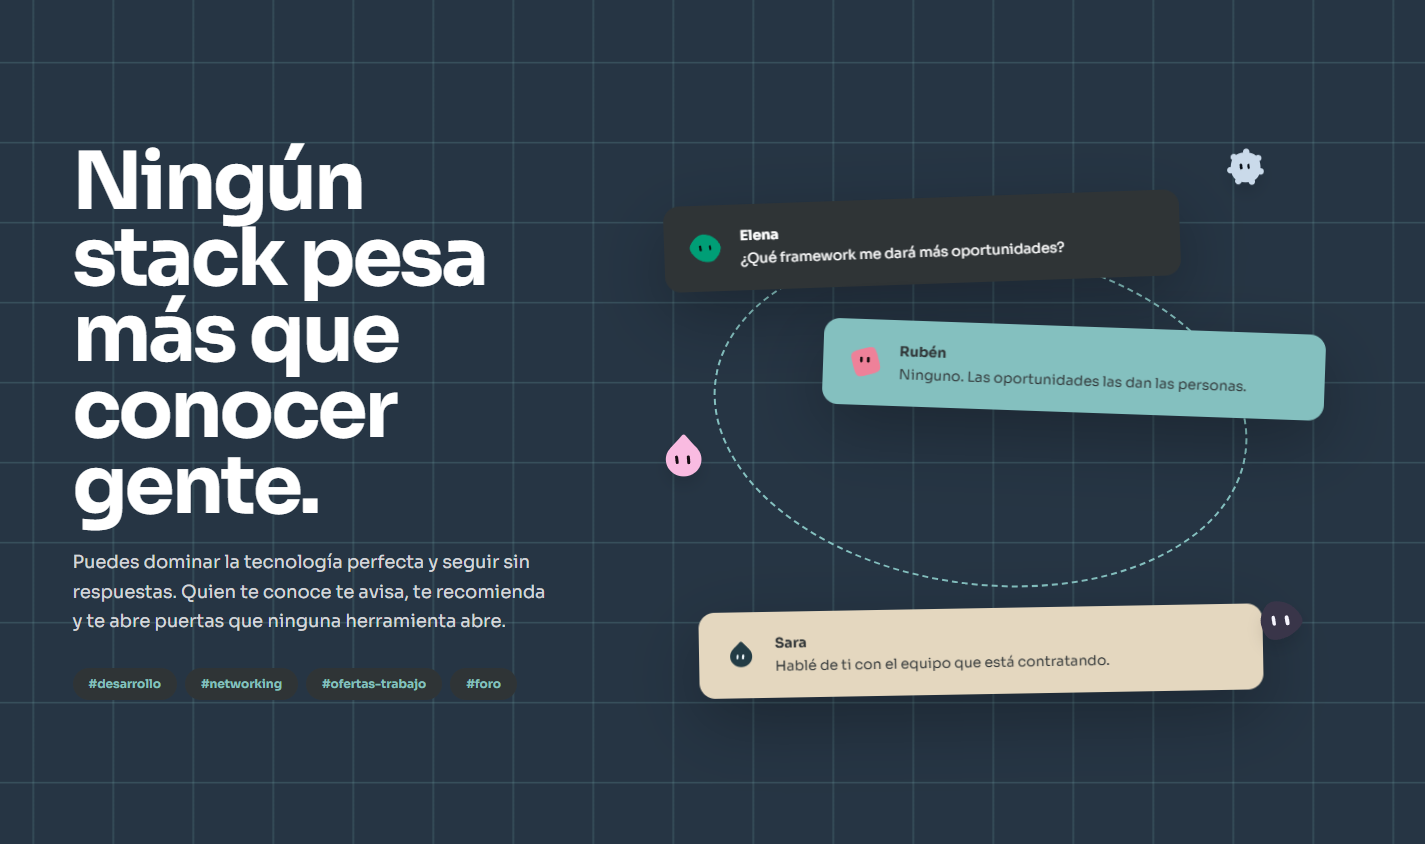
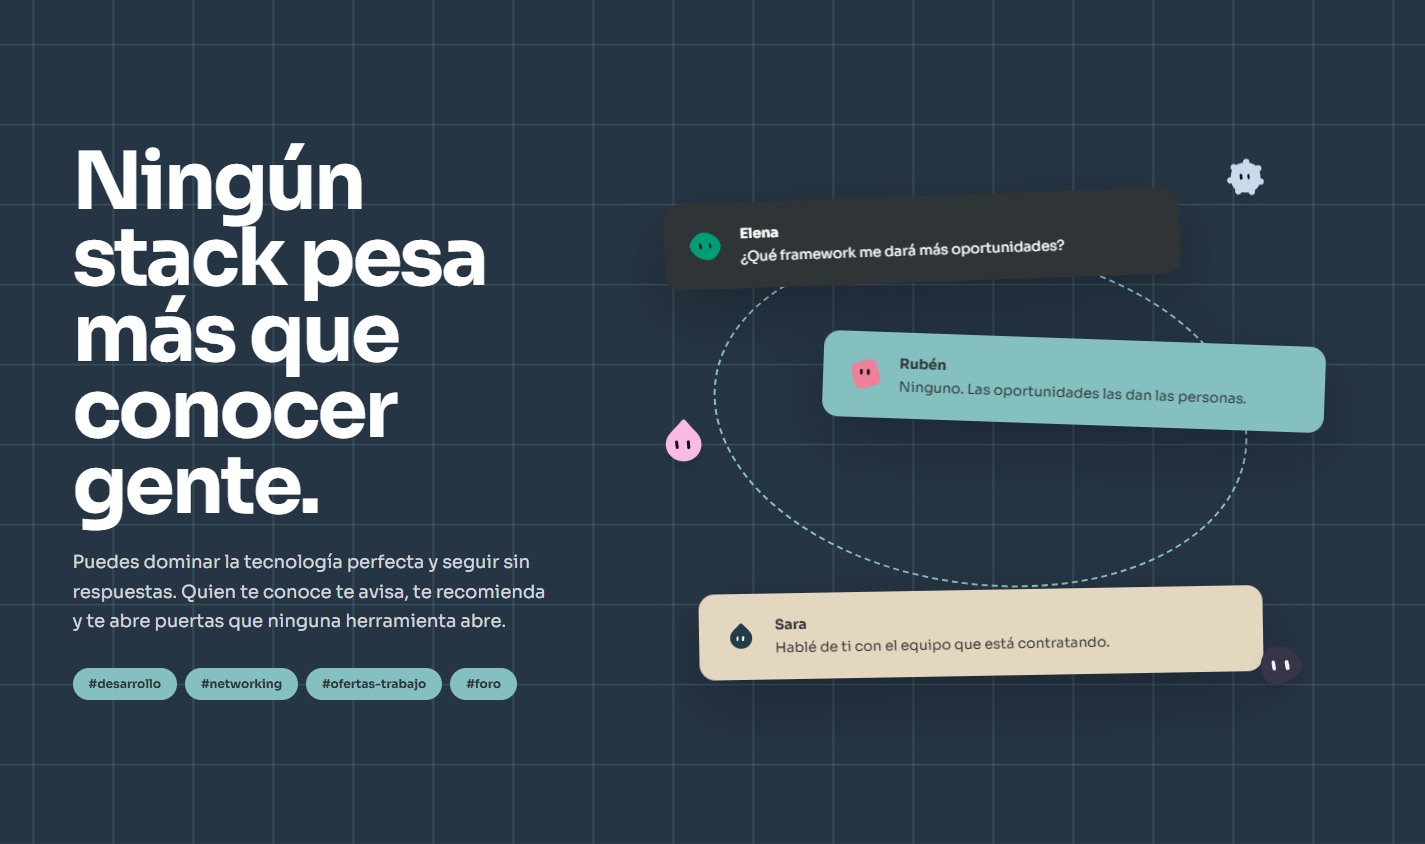
docs: document fixed grids and refresh networking preview

diff --git a/README.md b/README.md
@@ -49,6 +49,8 @@ El azul pizarra `#263544` reemplaza únicamente los fondos blancos de las seccio
 
 Las tarjetas, los rankings, el formulario y el globo del muro conservan sus superficies blancas originales y su texto oscuro; los testimonios también siguen blancos. Se mantienen los fondos verdes, el gris de marca y los post-its beige. Los títulos y textos que aparecen directamente sobre azul pizarra usan colores claros. No se añadieron recursos, dependencias ni JavaScript.
 
+La cuadrícula queda fija respecto al viewport mediante `background-attachment: fixed`, mientras el contenido se desplaza. Con `prefers-reduced-motion: reduce` vuelve a desplazarse con la sección para evitar el paralaje. Las etiquetas de canales de Networking usan fondo verde y texto oscuro para destacar sobre el azul pizarra. Se verificaron los estilos calculados antes y después del scroll y la variante de movimiento reducido en el navegador de producción.
+
 Comprobaciones locales: `pnpm check`, build estático de producción y revisión responsive a 320, 390, 768, 1440 y 1920 px. Se comprobaron la cuadrícula compartida, las superficies blancas y el foco de los controles. Capturas en `artifacts/slate-backgrounds`. La verificación en móvil real y Lighthouse final en producción siguen pendientes.
 
 ## Recursos y licencias
